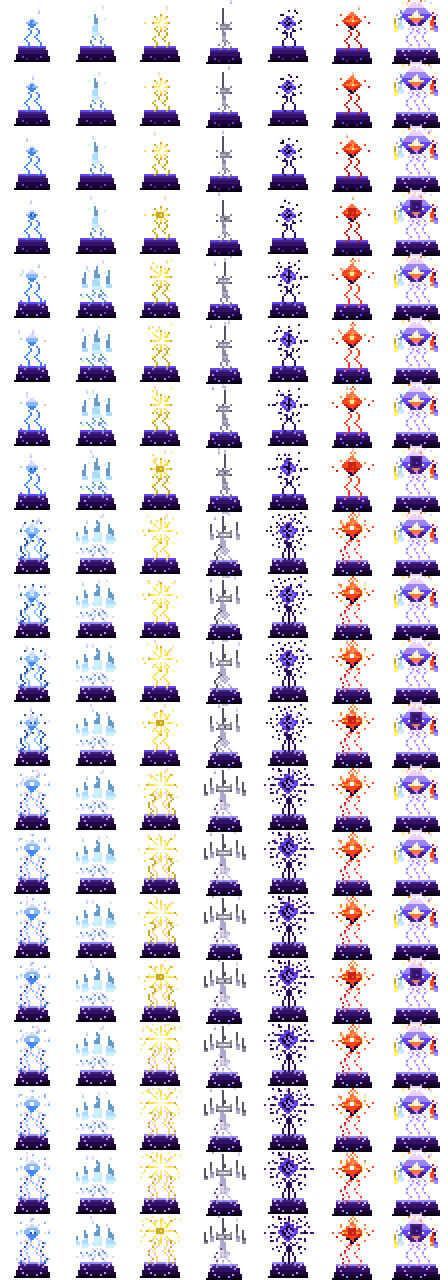
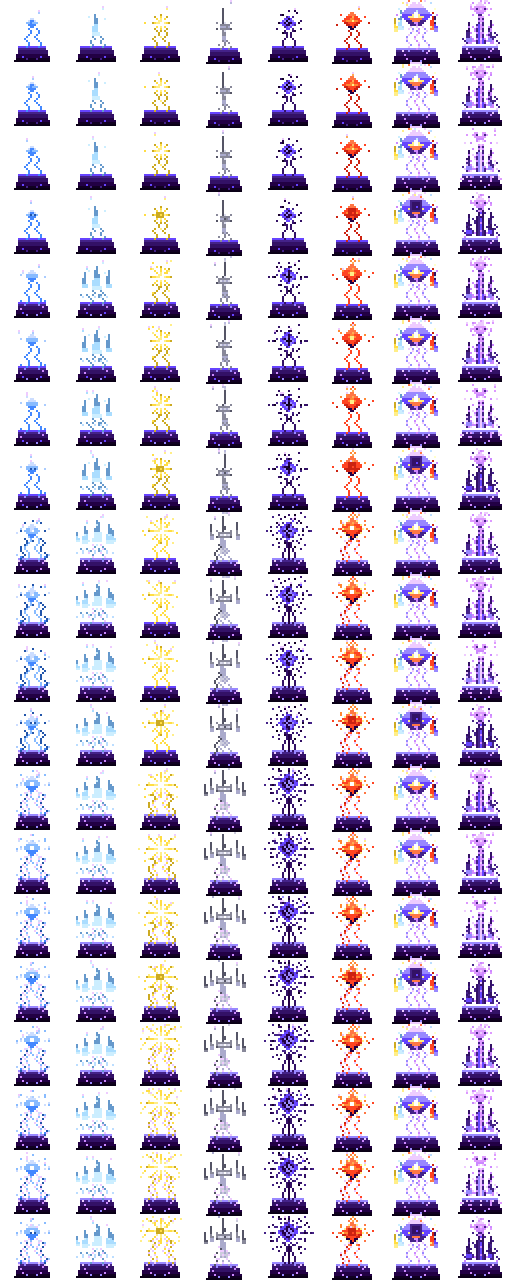
M10 PRD 05: Mana Conduit tower via TSX procedural-art path
Adds the Mana Conduit — a single-level passive structure that channels
energy upward into a suspended crystal cluster, contributing to the
Summoning Circle charge meter when placed adjacent. Distinct silhouette
from Mana Drain (which is a downward vortex) — the Conduit reads as an
obelisk topped with a hovering geode + violet beam.

- arcane_sprites.tsx: drawConduit() at column 7. Reuses arcaneBase /
  crystalSpire / arcaneOrbit / arcaneTendril helpers for visual
  cohesion with the rest of the kit. Visual density now matches the
  other arcane towers per the user's quality note (chunky obelisk
  body, side support spires, halo ring, orbiting motes, lit pedestal
  runes).
- src/skin-editor/FactionModules.ts: arcane towerCols 7 -> 8;
  appended 'Mana Conduit' to towerNames so the skin editor picks it up.
- public/assets/arcane/arcane_towers.png: re-baked at 512x1280 (was
  448x1280) via the export-sprites pipeline.

Skin variant PNGs (_blood_magic / _corrupted / _moonstone / _sandstone)
are still 448x1280; will be regenerated when the user opens the skin
editor next. Not blocking M10 — that mission uses the main palette.

diff --git a/arcane_sprites.tsx b/arcane_sprites.tsx
@@ -121,13 +121,13 @@ function arcaneOrbit(p:(x:number,y:number,cl:string)=>void,cx:number,cy:number,p
 }
 
 // ===== TOWER LEVEL COUNTS =====
-// Bolt:4, Frost:3, Storm:5, Focus:4, ManaDrain:4, Meteor:3, ArcaneNova:1
-const T_LEVELS=[4,3,5,4,4,3,1];
+// Bolt:4, Frost:3, Storm:5, Focus:4, ManaDrain:4, Meteor:3, ArcaneNova:1, ManaConduit:1
+const T_LEVELS=[4,3,5,4,4,3,1,1];
 const T_MAX_LVL=5; // max across all towers — sheet has this many level-groups
 const T_ROWS_PER_LVL=4; // idle/charge/fire/cooldown per level
 const T_TOTAL_ROWS=T_MAX_LVL*T_ROWS_PER_LVL; // 20
 
-// ===== TOWERS (7 cols × 20 rows at 64×64) =====
+// ===== TOWERS (8 cols × 20 rows at 64×64) =====
 // Layout: for each upgrade level (1-5), 4 animation rows (idle/charge/fire/cooldown).
 // Towers with fewer levels repeat their max level for remaining rows.
 
@@ -423,6 +423,152 @@ function drawMeteor(c:CanvasRenderingContext2D,o:number[],s:number,level:number)
   if(s===3){b(14,cy-2,4,4,C.DKRED);p(16,cy,C.RED);}
 }
 
+// Mana Conduit — single-level passive structure. Channels energy UPWARD
+// from a wide pedestal through a thick crystal obelisk into a suspended
+// floating geode, feeding adjacent Summoning Circles. Distinct from Mana
+// Drain (downward vortex/dark void) — the Conduit's signature is an
+// axis-aligned column of channeled light topped with a hovering crystal.
+function drawConduit(c:CanvasRenderingContext2D,o:number[],s:number,_level:number){
+  const{p,b}=mk(c,o,T_G,T_G,T_PX);
+  // Wide low pedestal — imposing, anchored. glow=2 always (single-level always-on).
+  arcaneBase(p,b,23,22,2);
+  // Animation phase: idle/charge/fire/cooldown encoded by s∈[0..3].
+  const charging=s===1,firing=s===2,cooling=s===3;
+  const bright=firing?2:charging||!cooling?1:0;
+  // ===== CENTRAL OBELISK =====
+  // Tall thick pillar from pedestal-top up to row 9. Tapers slightly so
+  // it reads as a hewn obelisk rather than a beam.
+  const obTop=8,obBot=22,obH=obBot-obTop;
+  for(let i=0;i<obH;i++){
+    const t=i/obH; // 0 top, 1 bottom
+    const w=Math.round(3+t*2); // 3 wide at top → 5 wide at bottom
+    const sx=16-Math.floor(w/2);
+    const y=obTop+i;
+    const inner=cooling?C_tower.MDVIO:bright>1?C_tower.LTVIO:C_tower.BRVIO;
+    const edge=cooling?C_tower.DKVIO:C_tower.MDVIO;
+    const core=cooling?C_tower.BRVIO:bright>1?C_tower.PLLAV:C_tower.LTLAV;
+    b(sx,y,w,1,edge);
+    if(w>=3)b(sx+1,y,w-2,1,inner);
+    p(16,y,core);
+  }
+  // Obelisk facet bands — horizontal rune-stripes that read as carvings
+  for(const by of [obTop+2,obTop+5,obTop+8,obTop+11]){
+    const w=Math.round(3+((by-obTop)/obH)*2);
+    const sx=16-Math.floor(w/2);
+    p(sx,by,bright>0?C_tower.LAV:C_tower.DKVIO);
+    if(w>=3)p(sx+w-1,by,bright>0?C_tower.LAV:C_tower.DKVIO);
+  }
+  // Central rune marks down the obelisk face
+  p(16,obTop+3,bright>1?C.WHITE:C_tower.PLLAV);
+  p(16,obTop+7,bright>0?C_tower.PLLAV:C_tower.LAV);
+  p(16,obTop+11,bright>0?C_tower.PLLAV:C_tower.LAV);
+  // Obelisk capstone — pointed crystal tip
+  p(16,obTop-1,firing?C.WHITE:bright>1?C_tower.PLLAV:C_tower.LTLAV);
+  p(15,obTop,bright>0?C_tower.LTLAV:C_tower.LAV);
+  p(17,obTop,bright>0?C_tower.LTLAV:C_tower.LAV);
+  // ===== SIDE SUPPORT SPIRES =====
+  // Two flanking crystal spires lean inward, framing the obelisk.
+  crystalSpire(p,b,9,obTop+3,10,3,C_tower.DKVIO,bright>0?C_tower.MDVIO:C_tower.DKVIO,bright>0?C_tower.LTVIO:C_tower.BRVIO);
+  crystalSpire(p,b,20,obTop+2,11,3,C_tower.DKVIO,bright>0?C_tower.MDVIO:C_tower.DKVIO,bright>0?C_tower.LTVIO:C_tower.BRVIO);
+  // Side spire facet sparkle
+  p(10,obTop+5,bright>0?C_tower.LAV:C_tower.MDVIO);
+  p(22,obTop+4,bright>0?C_tower.LAV:C_tower.MDVIO);
+  // ===== FLOATING GEODE (terminus) =====
+  // Substantial diamond crystal hovering above the obelisk — the energy
+  // sink. Sized comparable to Bolt's level-4 crystal so silhouette reads.
+  const cy=4+(firing?-1:cooling?1:0);
+  const cSize=7;
+  for(let i=0;i<cSize;i++){
+    const hw=i<Math.ceil(cSize/2)?i+1:cSize-i;
+    const sx=16-hw;
+    const cl=i<2?(firing?C.WHITE:C_tower.PLLAV):i<Math.ceil(cSize*0.6)?C_tower.LTLAV:i<cSize-1?C_tower.LAV:C_tower.MDVIO;
+    b(sx,cy-Math.floor(cSize/2)+i,hw*2,1,cl);
+  }
+  // Geode inner facet — bright core
+  b(15,cy-1,2,2,firing?C.WHITE:bright>1?C_tower.PLLAV:C_tower.LTLAV);
+  p(16,cy,firing?C.WHITE:C_tower.PLLAV);
+  // Geode facet darks (depth)
+  p(14,cy,C_tower.MDVIO);p(18,cy,C_tower.MDVIO);
+  p(15,cy+1,bright>0?C_tower.LTLAV:C_tower.LAV);
+  p(17,cy+1,bright>0?C_tower.LTLAV:C_tower.LAV);
+  // ===== VIOLET BEAM =====
+  // Connects obelisk tip → floating geode. Always visible (idle), wider
+  // when charging/firing.
+  const beamTop=cy+Math.floor(cSize/2),beamBot=obTop-2;
+  for(let y=beamTop;y<=beamBot;y++){
+    const inner=firing?C.WHITE:bright>0?C_tower.PLLAV:C_tower.LTLAV;
+    const outer=firing?C_tower.PLLAV:bright>0?C_tower.LTLAV:C_tower.LAV;
+    const ext=firing?C_tower.LAV:C_tower.MDVIO;
+    p(16,y,inner);
+    p(15,y,outer);p(17,y,outer);
+    if(firing||bright>1){p(14,y,ext);p(18,y,ext);}
+  }
+  // Traveling pulse dots up the beam (charge/fire only)
+  if(charging||firing){
+    const pulses=firing?3:2;
+    for(let i=0;i<pulses;i++){
+      const py=beamTop+((s*2+i*2)%(beamBot-beamTop+1));
+      p(16,py,C.WHITE);
+      if(firing){p(15,py,C_tower.PLLAV);p(17,py,C_tower.PLLAV);}
+    }
+  }
+  // ===== HALO LAYERS AROUND FLOATING GEODE =====
+  // Inner orbit ring (4 motes)
+  for(let i=0;i<4;i++){
+    const a=i*Math.PI/2+s*0.6;
+    p(16+Math.round(Math.cos(a)*5),cy+Math.round(Math.sin(a)*4),firing?C.WHITE:bright>0?C_tower.PLLAV:C_tower.LTLAV);
+  }
+  // Outer halo ring (8 motes) — always visible at lower brightness
+  for(let i=0;i<8;i++){
+    const a=i*Math.PI/4;
+    const r=firing?7:bright>1?6:5;
+    p(16+Math.round(Math.cos(a)*r),cy+Math.round(Math.sin(a)*(r-1)),i%2?(bright>0?C_tower.LAV:C_tower.MDVIO):(bright>0?C_tower.LTLAV:C_tower.LAV));
+  }
+  // Orbiting crystal sparkles (signature)
+  arcaneOrbit(p,16,cy-4,s*1.3,firing?C.WHITE:C_tower.PLLAV);
+  arcaneOrbit(p,12,cy-2,s*1.3+2,C_tower.LTLAV);
+  arcaneOrbit(p,20,cy-2,s*1.3+4,C_tower.LTLAV);
+  // ===== TENDRILS =====
+  // Energy threads from the pedestal up the obelisk sides — like the
+  // other arcane towers' tendril signature, but flowing UP instead of out.
+  arcaneTendril(p,11,obBot-1,12,obTop+5,bright>0?C_tower.LAV:C_tower.MDVIO,firing||bright>1);
+  arcaneTendril(p,21,obBot-1,20,obTop+5,bright>0?C_tower.LAV:C_tower.MDVIO,firing||bright>1);
+  arcaneTendril(p,8,obBot,9,obTop+8,C_tower.MDVIO,bright>1);
+  arcaneTendril(p,24,obBot,23,obTop+8,C_tower.MDVIO,bright>1);
+  // ===== PEDESTAL RUNE GLYPHS =====
+  // Lit runes around the base — always on, brighter at fire.
+  const runeBright=firing?C.WHITE:bright>0?C_tower.PLLAV:C_tower.LAV;
+  p(8,22,runeBright);p(24,22,runeBright);
+  p(10,21,bright>0?C_tower.LAV:C_tower.MDVIO);
+  p(22,21,bright>0?C_tower.LAV:C_tower.MDVIO);
+  p(13,20,C_tower.LAV);p(19,20,C_tower.LAV);
+  // ===== FIRING BURST =====
+  if(firing){
+    // Radial burst from the floating geode
+    for(let i=0;i<12;i++){const a=i*Math.PI/6;
+      p(16+Math.round(Math.cos(a)*9),cy+Math.round(Math.sin(a)*8),i%3===0?C.WHITE:i%2?C_tower.PLLAV:C_tower.LAV);
+    }
+    // Ground-glow ring around the pedestal
+    for(let i=0;i<12;i++){const a=i*Math.PI/6;
+      p(16+Math.round(Math.cos(a)*10),25+Math.round(Math.sin(a)*1),i%2?C_tower.PLLAV:C_tower.LTLAV);
+    }
+    // Bright spike up from geode top
+    for(let i=0;i<3;i++)p(16,cy-Math.floor(cSize/2)-1-i,i===0?C.WHITE:C_tower.PLLAV);
+  }
+  // ===== CHARGE OVERLAY =====
+  if(charging){
+    // Extra particles drawn into the geode
+    p(13,cy-3,C_tower.LTLAV);p(19,cy-3,C_tower.LTLAV);
+    p(11,cy+1,C_tower.LAV);p(21,cy+1,C_tower.LAV);
+  }
+  // ===== COOLDOWN OVERLAY =====
+  if(cooling){
+    // Beam dims to a thin trickle, ember dots fall
+    p(14,cy+4,C_tower.MDVIO);p(18,cy+5,C_tower.MDVIO);
+    p(16,cy+7,C_tower.DKVIO);
+  }
+}
+
 function drawArcaneNova(c:CanvasRenderingContext2D,o:number[],s:number,_level:number){
   const{p,b}=mk(c,o,T_G,T_G,T_PX);
   // Ultimate — always max visuals (single level)
@@ -467,14 +613,14 @@ export function drawBase(ctx:CanvasRenderingContext2D,col:number,row:number){
   const{p,b}=mk(ctx,[col*T_CELL,row*T_CELL],T_G,T_G,T_PX);
   const level=Math.floor(row/T_ROWS_PER_LVL)+1;
   const glow=level>=3?2:level>=2?1:0;
-  const baseWidths=[18,20,20,18,20,20,24]; // per tower
-  const baseYs=[23,23,23,24,23,24,24];
+  const baseWidths=[18,20,20,18,20,20,24,22]; // per tower
+  const baseYs=[23,23,23,24,23,24,24,23];
   arcaneBase(p,b,baseYs[col]??23,baseWidths[col]??20,glow);
 }
 
 export function drawTowers(ctx:CanvasRenderingContext2D){
-  const towerFns=[drawBolt,drawFrost,drawStorm,drawFocus,drawManaDrain,drawMeteor,drawArcaneNova];
-  const cols=7,rows=T_TOTAL_ROWS;
+  const towerFns=[drawBolt,drawFrost,drawStorm,drawFocus,drawManaDrain,drawMeteor,drawArcaneNova,drawConduit];
+  const cols=8,rows=T_TOTAL_ROWS;
   for(let col=0;col<cols;col++){
     const maxLvl=T_LEVELS[col];
     for(let lvl=1;lvl<=T_MAX_LVL;lvl++){
@@ -986,7 +1132,7 @@ export function drawHero(ctx:CanvasRenderingContext2D){
 }
 
 // ===== LABELS =====
-const T_NAMES=['Bolt','Frost','Storm','Focus','Mana Drain','Meteor','Arcane Nova'];
+const T_NAMES=['Bolt','Frost','Storm','Focus','Mana Drain','Meteor','Arcane Nova','Mana Conduit'];
 const T_STATES:string[]=[];
 for(let lvl=1;lvl<=T_MAX_LVL;lvl++){for(const st of['Idle','Charge','Fire','Cooldown'])T_STATES.push(`L${lvl} ${st}`);};
 const P_NAMES=['Bolt','Frost','Storm','Focus','Mana Drain','Meteor','Arcane Nova'];
@@ -1005,16 +1151,16 @@ export default function ArcaneSprites(){
 
   useEffect(()=>{
     // Towers
-    const tc=tRef.current!;tc.width=7*T_CELL;tc.height=T_TOTAL_ROWS*T_CELL;
+    const tc=tRef.current!;tc.width=8*T_CELL;tc.height=T_TOTAL_ROWS*T_CELL;
     const tCtx=tc.getContext('2d')!;tCtx.imageSmoothingEnabled=false;
     drawTowers(tCtx);
     // Tower preview
     const tpv=tPv.current!;const tS=2,tLW=80,tLH=13;
-    tpv.width=tLW+7*T_CELL*tS;tpv.height=T_TOTAL_ROWS*(T_CELL*tS+tLH)+10;
+    tpv.width=tLW+8*T_CELL*tS;tpv.height=T_TOTAL_ROWS*(T_CELL*tS+tLH)+10;
     const tpc=tpv.getContext('2d')!;tpc.imageSmoothingEnabled=false;
     tpc.fillStyle='#07050c';tpc.fillRect(0,0,tpv.width,tpv.height);
     for(let r=0;r<T_TOTAL_ROWS;r++){const by=r*(T_CELL*tS+tLH)+5;tpc.fillStyle='#6644ff';tpc.font='bold 9px monospace';tpc.fillText(T_STATES[r],3,by+T_CELL*tS/2+3);
-      for(let cc=0;cc<7;cc++){const bx=tLW+cc*T_CELL*tS;tpc.save();tpc.translate(bx,by);tpc.scale(tS,tS);tpc.drawImage(tc,cc*T_CELL,r*T_CELL,T_CELL,T_CELL,0,0,T_CELL,T_CELL);tpc.restore();tpc.strokeStyle='#1a1a2a';tpc.strokeRect(bx,by,T_CELL*tS,T_CELL*tS);if(r===0){tpc.fillStyle='#9988ff';tpc.font='9px monospace';tpc.fillText(T_NAMES[cc],bx+2,by-2);}}}
+      for(let cc=0;cc<8;cc++){const bx=tLW+cc*T_CELL*tS;tpc.save();tpc.translate(bx,by);tpc.scale(tS,tS);tpc.drawImage(tc,cc*T_CELL,r*T_CELL,T_CELL,T_CELL,0,0,T_CELL,T_CELL);tpc.restore();tpc.strokeStyle='#1a1a2a';tpc.strokeRect(bx,by,T_CELL*tS,T_CELL*tS);if(r===0){tpc.fillStyle='#9988ff';tpc.font='9px monospace';tpc.fillText(T_NAMES[cc],bx+2,by-2);}}}
 
     // Projectiles
     const pc=pRef.current!;pc.width=7*P_CELL;pc.height=6*P_CELL;
@@ -1048,7 +1194,7 @@ export default function ArcaneSprites(){
 
   const tabs=[
     {id:'towers',label:'Towers',ref:tRef,pvRef:tPv,dl:'arcane_towers_animated.png',
-      info:{sz:'448×1280',cell:'64×64',loader:"this.load.spritesheet('arcane_towers','arcane_towers_animated.png',{frameWidth:64,frameHeight:64})",note:`7 cols (towers) × ${T_TOTAL_ROWS} rows (5 upgrade levels × 4 anim states). Levels: Bolt=4, Frost=3, Storm=5, Focus=4, ManaDrain=4, Meteor=3, ArcaneNova=1. Towers with fewer levels repeat max for remaining rows.`}},
+      info:{sz:'512×1280',cell:'64×64',loader:"this.load.spritesheet('arcane_towers','arcane_towers_animated.png',{frameWidth:64,frameHeight:64})",note:`8 cols (towers) × ${T_TOTAL_ROWS} rows (5 upgrade levels × 4 anim states). Levels: Bolt=4, Frost=3, Storm=5, Focus=4, ManaDrain=4, Meteor=3, ArcaneNova=1, ManaConduit=1. Towers with fewer levels repeat max for remaining rows.`}},
     {id:'projectiles',label:'Projectiles',ref:pRef,pvRef:pPv,dl:'arcane_projectiles_animated.png',
       info:{sz:'224×192',cell:'32×32',loader:"this.load.spritesheet('arcane_proj','arcane_projectiles_animated.png',{frameWidth:32,frameHeight:32})",note:'7 cols × 6 rows (3 travel + 3 impact)'}},
     {id:'hero',label:'Hero: Arcanist',ref:hRef,pvRef:hPv,dl:'arcanist_hero_directional.png',
@@ -1077,7 +1223,7 @@ export default function ArcaneSprites(){
         {tabs.map(t=>(
           <div key={t.id} style={{display:tab===t.id?'block':'none'}}>
             <canvas ref={t.pvRef as any} style={{display:view==='preview'?'block':'none',maxWidth:'100%'}} data-label={`Arcane ${t.label} (Preview)`} data-frame-size={t.id==='projectiles'?'32x32':t.id==='hero'?'64x128':'64x64'}/>
-            <canvas ref={t.ref as any} data-label={`Arcane ${t.label}`} data-frame-size={t.id==='projectiles'?'32x32':t.id==='hero'?'64x128':'64x64'} style={{display:view==='actual'?'block':'none',imageRendering:'pixelated',width:t.id==='hero'?8*H_CW*1.5:t.id==='projectiles'?7*P_CELL*3:7*T_CELL*2,border:'1px solid #1a1a2a'}}/>
+            <canvas ref={t.ref as any} data-label={`Arcane ${t.label}`} data-frame-size={t.id==='projectiles'?'32x32':t.id==='hero'?'64x128':'64x64'} style={{display:view==='actual'?'block':'none',imageRendering:'pixelated',width:t.id==='hero'?8*H_CW*1.5:t.id==='projectiles'?7*P_CELL*3:8*T_CELL*2,border:'1px solid #1a1a2a'}}/>
           </div>
         ))}
       </div>

diff --git a/src/skin-editor/FactionModules.ts b/src/skin-editor/FactionModules.ts
@@ -58,8 +58,8 @@ export interface FactionSpriteInfo {
 }
 
 export const FACTION_SPRITES: FactionSpriteInfo[] = [
-  { id: 'arcane', name: 'Arcane', towerCols: 7, towerRows: 20, towerCell: 64, projCols: 7, projRows: 6, projCell: 32, modulePath: '/arcane_sprites.tsx',
-    towerNames: ['Bolt', 'Frost', 'Storm', 'Focus', 'Mana Drain', 'Meteor', 'Arcane Nova'] },
+  { id: 'arcane', name: 'Arcane', towerCols: 8, towerRows: 20, towerCell: 64, projCols: 7, projRows: 6, projCell: 32, modulePath: '/arcane_sprites.tsx',
+    towerNames: ['Bolt', 'Frost', 'Storm', 'Focus', 'Mana Drain', 'Meteor', 'Arcane Nova', 'Mana Conduit'] },
   { id: 'void', name: 'Void', towerCols: 5, towerRows: 24, towerCell: 64, projCols: 5, projRows: 6, projCell: 32, modulePath: '/void_sprites.tsx',
     towerNames: ['Gambler', 'Spike', 'Siphon', 'Rift', 'Oblivion'] },
   { id: 'mechanical', name: 'Mechanical', towerCols: 8, towerRows: 24, towerCell: 64, projCols: 8, projRows: 6, projCell: 32, modulePath: '/mechanical_sprites.tsx',
